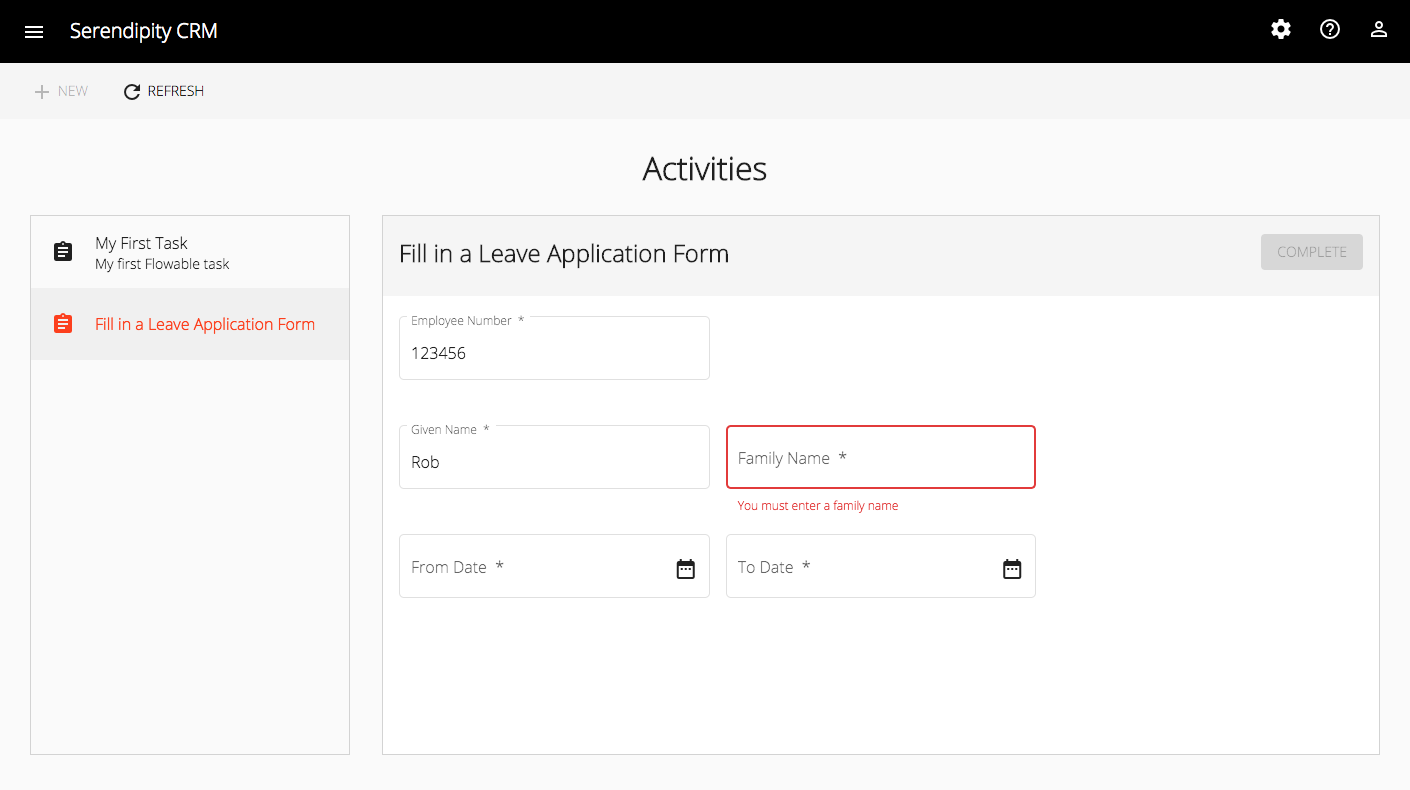
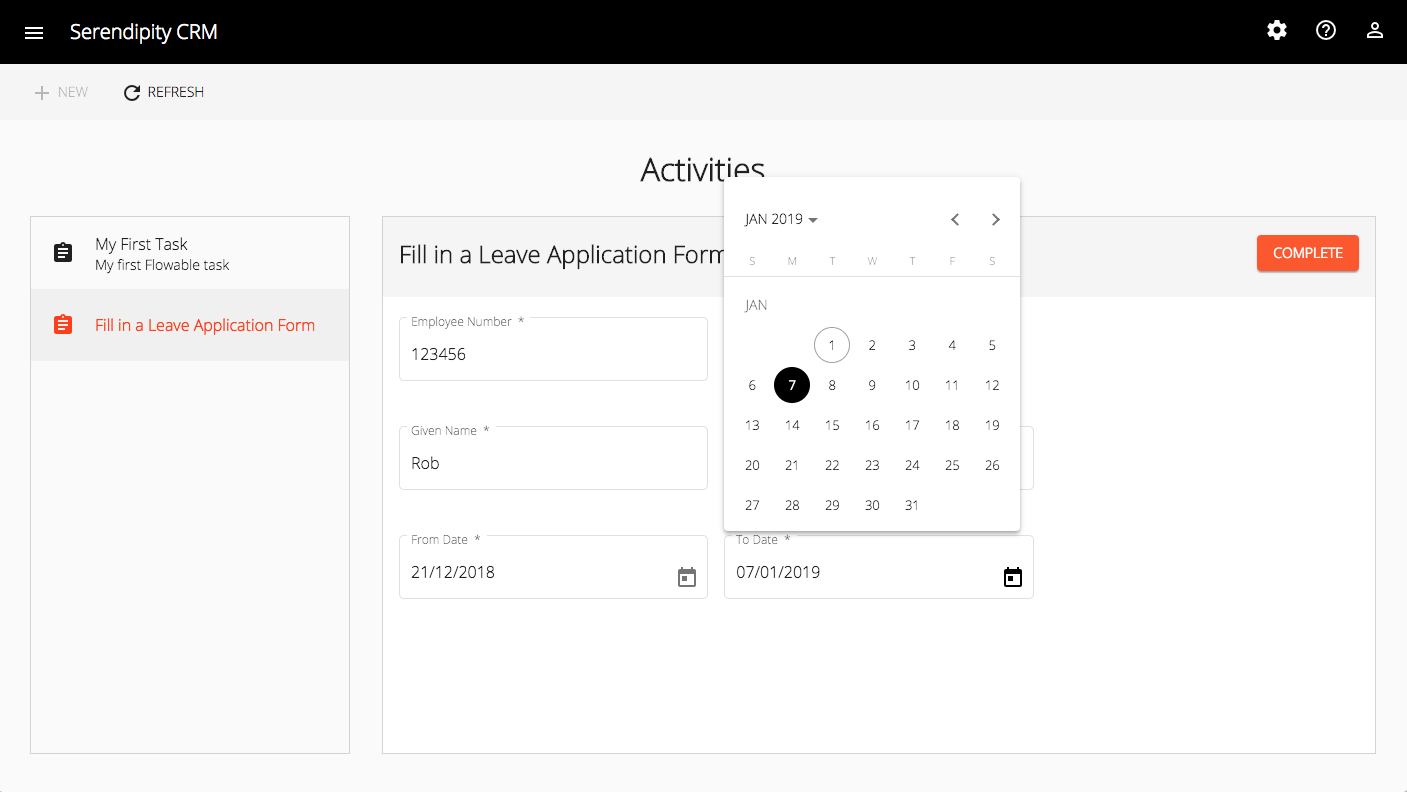
Updated the Dynamic Forms library

diff --git a/projects/dynamic-forms/src/lib/angular-material/components/dynamic-datepicker/dynamic-datepicker.component.ts b/projects/dynamic-forms/src/lib/angular-material/components/dynamic-datepicker/dynamic-datepicker.component.ts
@@ -16,15 +16,15 @@ import { LoggerService } from 'utils';
         <mat-label> {{ model.label }} </mat-label>
       </ng-container>
 
-      <input matInput
+      <input #input matInput
              [formControlName]="model.id"
-             [matDatepicker]="matDatepicker"
+             [matDatepicker]="picker"
              [placeholder]="model.placeholder"
              [required]="model.required" />
 
-      <mat-datepicker-toggle matSuffix [for]="matDatepicker"></mat-datepicker-toggle>
+      <mat-datepicker-toggle matSuffix [for]="picker"></mat-datepicker-toggle>
 
-      <mat-datepicker #matDatepicker></mat-datepicker>
+      <mat-datepicker #picker></mat-datepicker>
 
       <ng-container *ngFor="let validator of model.validators;" ngProjectAs="mat-error">
         <mat-error *ngIf="formGroup.controls[model.id].hasError(validator.propertyName)"> {{ validator.message }} </mat-error>
@@ -54,3 +54,11 @@ export class DynamicDatepickerComponent implements OnInit {
 }
 
 // https://github.com/udos86/ng-dynamic-forms/blob/master/packages/ui-material/src/datepicker/dynamic-material-datepicker.component.ts
+
+// https://stackoverflow.com/questions/45874705/angular-material-2-date-picker-auto-open-on-focus
+
+/*
+
+<mat-datepicker #picker (closed)="input.blur()"></mat-datepicker>
+
+*/
